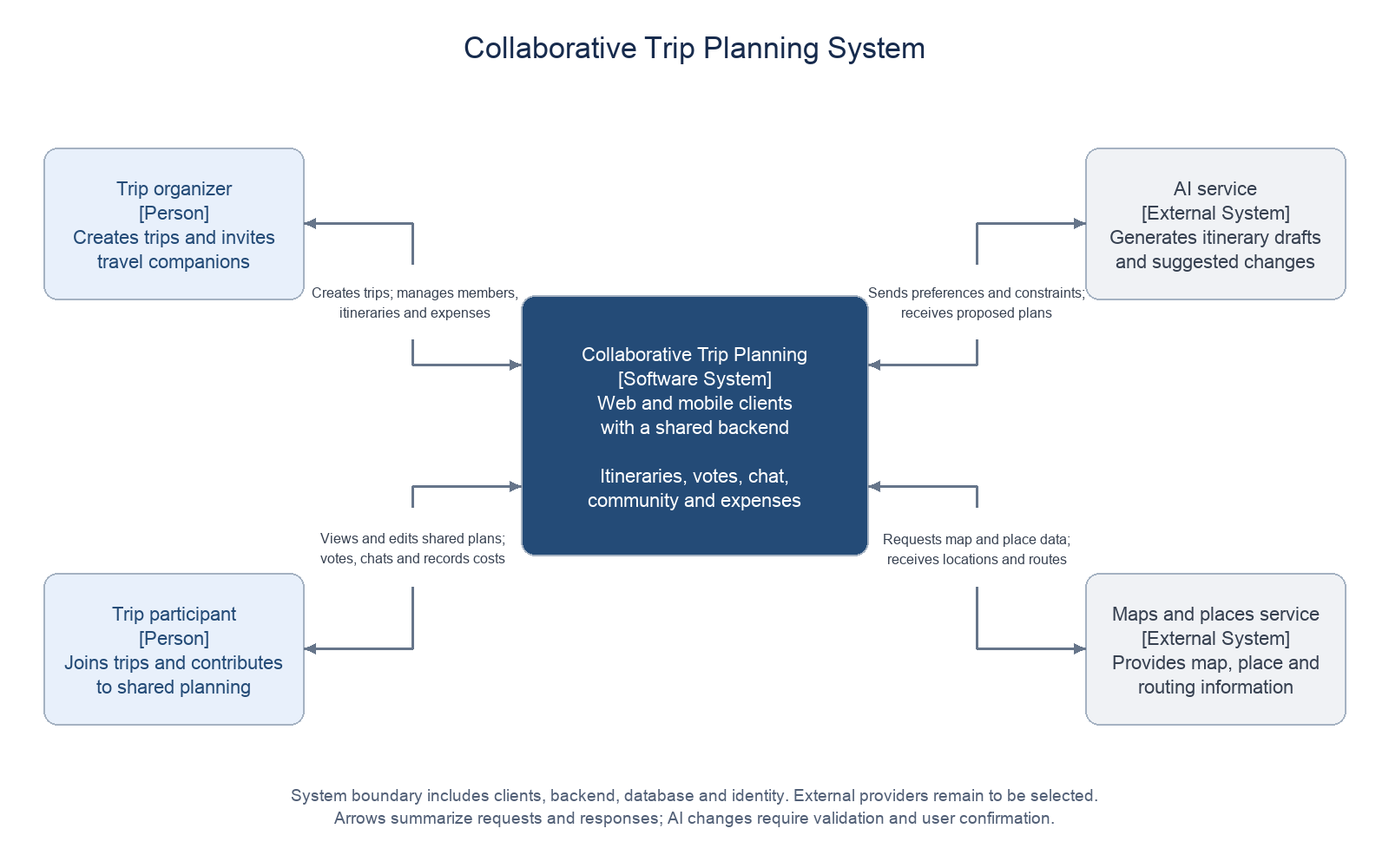
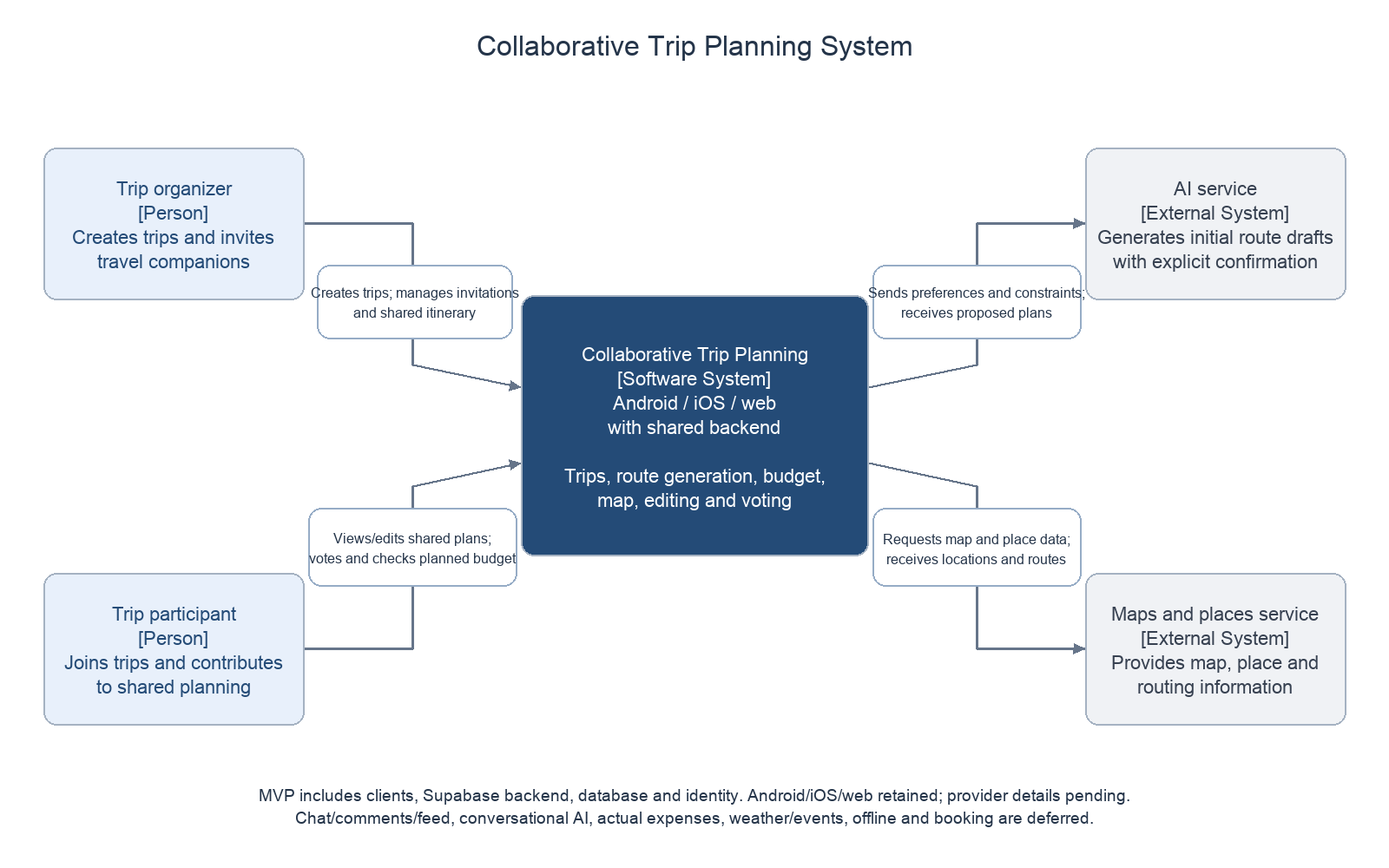
DIP-28 align backend schema and diagrams with five-function MVP

diff --git a/scripts/render_architecture.py b/scripts/render_architecture.py
@@ -1,0 +1,31 @@
+"""Render simple native draw.io context/backend sources to matching PNGs. Requires Pillow."""
+from pathlib import Path
+import xml.etree.ElementTree as E, math
+from PIL import Image,ImageDraw,ImageFont
+r=Path(__file__).resolve().parents[1]
+for name in ['backend-components','system-context']:
+ tree=E.parse(r/'diagrams'/(name+'.drawio'))
+ model=tree.find('.//mxGraphModel')
+ cells=list(tree.iter('mxCell'));boxes={c.get('id'):tuple(float(c.find('mxGeometry').get(k,'0')) for k in ['x','y','width','height']) for c in cells if c.get('vertex')=='1'}
+ im=Image.new('RGB',(int(model.get('pageWidth','2000')),int(model.get('pageHeight','1480'))),'white');d=ImageDraw.Draw(im)
+ def style(c):return dict(x.split('=',1) for x in c.get('style','').split(';') if '=' in x)
+ def rect(c):
+  x,y,w,h=boxes[c.get('id')];s=style(c)
+  if s.get('fillColor'): d.rounded_rectangle((x,y,x+w,y+h),radius=15,fill=s['fillColor'],outline=s.get('strokeColor','#96acc6'),width=2)
+ for c in cells:
+  if c.get('id')=='boundary':rect(c)
+ def border(box,point):
+  x,y,w,h=box;cx,cy=x+w/2,y+h/2;dx,dy=point[0]-cx,point[1]-cy
+  scale=min(w/2/abs(dx) if dx else float('inf'),h/2/abs(dy) if dy else float('inf'))
+  return (cx+dx*scale,cy+dy*scale)
+ for c in cells:
+  if c.get('edge')!='1':continue
+  a,b=boxes[c.get('source')],boxes[c.get('target')];pts=[(float(q.get('x')),float(q.get('y'))) for q in c.findall('.//mxPoint')]
+  ac=(a[0]+a[2]/2,a[1]+a[3]/2);bc=(b[0]+b[2]/2,b[1]+b[3]/2)
+  pts=[border(a,pts[0] if pts else bc)]+pts+[border(b,pts[-1] if pts else ac)];d.line(pts,fill='#66758a',width=3)
+  px,py=pts[-1];qx,qy=pts[-2];ang=math.atan2(py-qy,px-qx)
+  d.polygon([(px,py),(px-13*math.cos(ang)+6*math.sin(ang),py-13*math.sin(ang)-6*math.cos(ang)),(px-13*math.cos(ang)-6*math.sin(ang),py-13*math.sin(ang)+6*math.cos(ang))],fill='#66758a')
+ for c in cells:
+  if c.get('vertex')!='1' or c.get('id')=='boundary':continue
+  rect(c);s=style(c);x,y,w,h=boxes[c.get('id')];size=int(s.get('fontSize','23'));f=ImageFont.truetype('/System/Library/Fonts/Supplemental/Arial.ttf',size);txt=c.get('value','');bb=d.multiline_textbbox((0,0),txt,font=f,spacing=8,align='center');d.multiline_text((x+w/2,y+h/2-(bb[3]-bb[1])/2),txt,font=f,fill=s.get('fontColor','#243449'),spacing=8,align='center',anchor='ma')
+ im.save(r / 'diagrams' / (name + '.png'))

diff --git a/scripts/render_schema_design.py b/scripts/render_schema_design.py
@@ -66,14 +66,15 @@ for page in schema["pages"]:
         fields = schema["tables"][table]
         draw.rectangle((x,y,x+w,y+h),fill="#f4f7fb",outline="#879bb5",width=2)
         draw.rectangle((x,y,x+w,y+47),fill="#e0eaf6")
-        draw.text((x+14,y+10),table,font=heading,fill="#243449")
+        label = table + " [" + schema["mvp_scope"]["tables"][table].upper() + "]"
+        draw.text((x+14,y+10),label,font=heading,fill="#243449")
         for n,line in enumerate(fields):
             if draw.textlength(line,font=font) > w-28:
                 raise ValueError(f"Field too wide: {table}: {line}")
             draw.text((x+14,y+64+n*32),line,font=font,fill="#243449")
-        value = table+"\n\n"+"\n".join(fields)
+        value = label+"\n\n"+"\n".join(fields)
         text_cell(table,value,x,y,w,h,"rounded=0;whiteSpace=wrap;html=0;fillColor=#f4f7fb;strokeColor=#879bb5;fontColor=#243449;fontSize=18;align=left;verticalAlign=top;spacing=14;")
-    note = "Repeated tables are references to one shared schema. FK fields define all relationships.\nPK: primary key; UQ: unique; ?: nullable. Proposed design; see docs/database-design.md for rules."
+    note = "MVP / DEFERRED labels mark scope; all 15 tables retained. Repeated tables are references.\nPK: primary key; UQ: unique; ?: nullable. Proposed design; see docs/database-design.md for rules."
     draw.multiline_text((60,1570),note,font=font,fill="#52657c",spacing=10)
     text_cell("note",note,60,1570,1880,100,"text;html=0;fontSize=18;align=left;")
     image.save(ROOT / "diagrams" / (page["file"]+".png"))

diff --git a/docs/backend-technology-comparison.md b/docs/backend-technology-comparison.md
@@ -1,5 +1,22 @@
 # Backend and Communication Technology Comparison
 
+## Five-function MVP boundary (23 October 2026)
+
+This revision follows the supervisor scope recorded in [PR #10](https://github.com/yer455yl/collaborative-trip-planning/pull/10) and the [proposed responsibility split](mvp-scope-and-responsibilities.md). Android, iOS and web remain planned. Detailed ownership and interface acceptance are pending teammate replies; this document does not approve PR #10.
+
+| Scope | Tables and responsibility |
+| --- | --- |
+| MVP support | `users`, `trips`, `participants`: authenticated trip creation and active owner/editor access |
+| MVP planning | `places`, `plan_items`: catalog identifiers, route/map data and whole-party planned costs |
+| MVP collaboration | `votes`, `invitations`: one current vote, owner-issued invitation and atomic acceptance |
+| MVP generation | `ai_proposals`: initial route draft, validation and explicit versioned confirmation; no conversational editor |
+| Deferred, retained | `events`, `comments`, `chat_messages`, `posts`, `post_reports`, `expenses`, `expense_splits` |
+
+All **15** table definitions and results of PR #8/#9 are retained. `trips.expenses_enabled`, `places.booking_url`, `plan_items.event_id` and `item_type=event` are future fields; retaining them does not enable those capabilities. Actual expenses/debts differ from planned estimates. Weather, offline access and booking integrations are deferred. Future text below describes retained design only wherever it concerns these domains.
+
+MVP invariants: owner = Organizer; editor = Participant; inactive members have no access. Both active roles edit/vote; only the owner administers invitations/membership. Initial generation uses the same trusted validation as manual editing. `plan_items.estimated_cost` is already normalized for the whole party. Never multiply it by traveler count again. Server-owned catalog prices, required categories and freshness policy must be checked independently of client totals. See the [proposed wire/transaction contract](mvp-server-contract.md) for errors, dates, units, confirmation and open questions.
+
+
 Prepared by Aman Yerassyl. Documentation checked on 20 October 2026.
 
 ## Purpose and proposed decision
@@ -10,7 +27,7 @@ Wanderlog is a reference for user-facing planning workflows, not evidence of its
 
 ## Requirements used for comparison
 
-Both clients need a shared source of truth for trips, participants, ordered itinerary items, votes, comments, messages, posts, expenses and places. Private trip data must be available only to authorized members. Expense totals and membership changes require consistent validation. AI-generated plans must be checked against stored places and budget rules before the user confirms changes. Chat and collaborative updates need timely delivery; permanent data must survive a disconnected client.
+MVP clients need a shared source of truth for trips, participants, itinerary items, votes, invitations, proposals and places. Comments, messages, posts and actual expenses remain future comparative considerations. Private trip data must be available only to authorized members. Expense totals and membership changes require consistent validation. AI-generated plans must be checked against stored places and budget rules before the user confirms changes. Collaborative itinerary/vote updates need timely delivery; permanent data must survive a disconnected client.
 
 The effort and suitability assessments below are engineering judgments for a three-person student team, not measured results. No assumptions are made about the team's existing framework expertise.
 
@@ -53,7 +70,7 @@ These options operate at different levels and can be combined. A real-time liste
 1. **Database: PostgreSQL through Supabase.** The domain has many connected records. Foreign keys and constraints support explicit relations and prevent some invalid states. This is a project-fit judgment, not a claim that Firestore cannot support the application.
 2. **Identity and access: Supabase Auth and trip-membership policies.** Web and mobile clients use the same identity system. Exposed tables require explicit access policies; privileged secrets stay on the server. RLS must be tested for owner, member, outsider and removed-member cases.
 3. **Data access: HTTPS REST and transactional database operations.** Use the generated data API for policy-protected ordinary operations. Use database functions or trusted server functions for membership changes, expense operations and itinerary updates requiring multiple atomic changes. A client-provided trip ID is never sufficient authorization.
-4. **Live collaboration: managed Realtime.** Persist chat messages before notifying other clients. Scope subscriptions to the relevant trip and enforce actual authorization. After reconnecting, fetch current records and deduplicate by record ID; refresh when access changes. Event filters are not a substitute for permissions.
+4. **Live collaboration: managed Realtime.** Persist MVP itinerary/vote changes before notifying other clients. Chat delivery is deferred. Scope subscriptions to the relevant trip and enforce actual authorization. After reconnecting, fetch current records and deduplicate by record ID; refresh when access changes. Event filters are not a substitute for permissions.
 5. **AI integration: trusted server execution.** The server checks membership, validates input and calls the external AI service. It validates proposed places, time and budget, then returns a draft. Saving requires user confirmation and validation against the latest itinerary version. The AI provider and execution limits remain undecided.
 6. **Custom Node.js service: reserve option.** Introduce a dedicated service if measured processing needs, integration requirements or function execution limits require it. A separate Node.js layer is not necessary solely to claim that the project has a backend.
 
@@ -63,9 +80,9 @@ Expense values should use an exact monetary representation and a defined currenc
 
 The following are planned checks, not completed test results:
 
-- Connect one web client and one mobile client to the same test trip; create a saved message and confirm both see it. Record end-to-end delay; the team must agree on an acceptance threshold.
+- Connect one web client and one mobile client to the same test trip; commit a versioned itinerary update and confirm both see it. Record end-to-end delay; the team must agree on an acceptance threshold.
 - Verify that an outsider cannot read, change or subscribe to private trip data; verify loss of access after membership removal.
-- Disconnect a client, create updates on the other, reconnect and confirm the complete saved state is restored without duplicate messages.
+- Disconnect a client, create updates on the other, reconnect and confirm the complete saved state is restored without duplicate itinerary items/votes.
 - Submit a vote twice and verify the agreed uniqueness rule; attempt a conflicting itinerary edit and verify explicit conflict handling.
 - Check monetary calculations and ensure an invalid or unconfirmed AI proposal cannot overwrite the saved itinerary.
 - Estimate usage against current quotas and pricing; confirm selected SDKs and server-function limits suit the chosen frameworks and AI workload.

diff --git a/docs/backend-component-design.md b/docs/backend-component-design.md
@@ -1,5 +1,22 @@
 # Backend Component Design
 
+## Five-function MVP boundary (23 October 2026)
+
+This revision follows the supervisor scope recorded in [PR #10](https://github.com/yer455yl/collaborative-trip-planning/pull/10) and the [proposed responsibility split](mvp-scope-and-responsibilities.md). Android, iOS and web remain planned. Detailed ownership and interface acceptance are pending teammate replies; this document does not approve PR #10.
+
+| Scope | Tables and responsibility |
+| --- | --- |
+| MVP support | `users`, `trips`, `participants`: authenticated trip creation and active owner/editor access |
+| MVP planning | `places`, `plan_items`: catalog identifiers, route/map data and whole-party planned costs |
+| MVP collaboration | `votes`, `invitations`: one current vote, owner-issued invitation and atomic acceptance |
+| MVP generation | `ai_proposals`: initial route draft, validation and explicit versioned confirmation; no conversational editor |
+| Deferred, retained | `events`, `comments`, `chat_messages`, `posts`, `post_reports`, `expenses`, `expense_splits` |
+
+All **15** table definitions and results of PR #8/#9 are retained. `trips.expenses_enabled`, `places.booking_url`, `plan_items.event_id` and `item_type=event` are future fields; retaining them does not enable those capabilities. Actual expenses/debts differ from planned estimates. Weather, offline access and booking integrations are deferred. Future text below describes retained design only wherever it concerns these domains.
+
+MVP invariants: owner = Organizer; editor = Participant; inactive members have no access. Both active roles edit/vote; only the owner administers invitations/membership. Initial generation uses the same trusted validation as manual editing. `plan_items.estimated_cost` is already normalized for the whole party. Never multiply it by traveler count again. Server-owned catalog prices, required categories and freshness policy must be checked independently of client totals. See the [proposed wire/transaction contract](mvp-server-contract.md) for errors, dates, units, confirmation and open questions.
+
+
 This proposed design describes Yerassyl's backend and database contribution. It is intended for integration with Zukhra's overall architecture and Sayakhat's client and AI workflows. Supabase is the selected shared backend for Flutter mobile and web. Authorization, transactions and reconnect recovery still require the proof of concept described in the technology comparison. No services have been deployed.
 
 ## Diagram
@@ -15,7 +32,7 @@ This proposed design describes Yerassyl's backend and database contribution. It 
 | Web and mobile clients | Present planning workflows and hold the user's session. They call the same backend. Client-side checks improve usability but do not establish permission |
 | Authentication | Managed sign-in and token issuance. Application profile IDs correspond to identity records; authentication does not automatically grant trip membership |
 | Data API | Policy-protected ordinary reads and writes through REST. Exposed tables require RLS and explicit grants. Complex operations must not be bypassed by direct table writes |
-| Trusted operations | Server functions authorize membership changes, expense updates, itinerary edits and AI requests. They invoke transactional database functions where multiple records must change atomically |
+| Trusted operations | MVP server functions authorize membership changes, itinerary edits and initial AI requests; expense commands are deferred. They invoke transactional database functions where multiple records must change atomically |
 | PostgreSQL | Stores the 15 application tables in the ER model and managed identity records separately. Enforces keys, constraints and policies; database functions implement atomic multi-record operations |
 | Realtime delivery | Sends permitted change notifications to subscribed clients after persistence. The database remains authoritative; subscriptions are not durable message history |
 | External AI provider | Receives a controlled planning request and returns untrusted draft content. Credentials stay in server configuration; the provider has no direct database access |
@@ -26,9 +43,9 @@ These are logical responsibilities. A single server-functions codebase may initi
 
 ### Reading and updating trip data
 
-The client signs in and supplies its token on data requests. Policies check active membership and role for the requested trip. Ordinary permitted records may use the Data API directly. Operations affecting ownership, expense totals or itinerary order must pass through a protected command and an atomic database transaction. Restrict direct writes to those records so clients cannot bypass invariant checks.
+The client signs in and supplies its token on data requests. Policies check active membership and role for the requested trip. Ordinary permitted records may use the Data API directly. MVP operations affecting ownership or itinerary order must pass through a protected command and an atomic database transaction. Restrict direct writes to those records so clients cannot bypass invariant checks.
 
-### Saving chat messages and notifying participants
+### Deferred: saving chat messages and notifying participants
 
 An active member sends a message with a stable client_message_id. The authorized write persists it once, using the unique key described in the ER model. Realtime then delivers permitted change events. Clients deduplicate by record ID and reload stored history after reconnection. A missing WebSocket event must not lose a saved message.
 
@@ -36,7 +53,7 @@ An active member sends a message with a stable client_message_id. The authorized
 
 The server checks the requester and trip, loads relevant places and constraints, and calls the AI provider. It validates the draft's place references, schedule and budget before returning it for preview. The existing saved itinerary remains unchanged. When the user confirms, the server rechecks permission and the current itinerary version and saves the valid changes atomically. Reject stale or invalid proposals. The revised ai_proposals table stores private structured drafts and confirmation outcomes. Confirmation and the itinerary version update occur in one trusted transaction; full conversation history remains outside this model.
 
-### Membership and expenses
+### Membership (MVP) and expenses (deferred)
 
 A protected operation handles accepted membership and ownership changes. Historical membership records remain available for linked messages and financial records; inactive users must lose access. Expense updates validate the payer, participating users, trip currency and exact sum of shares before committing. The role and invariants must be enforced within the trusted transaction, including when the server uses a privileged database connection.
 

diff --git a/docs/schema-alignment.md b/docs/schema-alignment.md
@@ -1,5 +1,22 @@
 # Schema Alignment for Mobile and Web
 
+## Five-function MVP boundary (23 October 2026)
+
+This revision follows the supervisor scope recorded in [PR #10](https://github.com/yer455yl/collaborative-trip-planning/pull/10) and the [proposed responsibility split](mvp-scope-and-responsibilities.md). Android, iOS and web remain planned. Detailed ownership and interface acceptance are pending teammate replies; this document does not approve PR #10.
+
+| Scope | Tables and responsibility |
+| --- | --- |
+| MVP support | `users`, `trips`, `participants`: authenticated trip creation and active owner/editor access |
+| MVP planning | `places`, `plan_items`: catalog identifiers, route/map data and whole-party planned costs |
+| MVP collaboration | `votes`, `invitations`: one current vote, owner-issued invitation and atomic acceptance |
+| MVP generation | `ai_proposals`: initial route draft, validation and explicit versioned confirmation; no conversational editor |
+| Deferred, retained | `events`, `comments`, `chat_messages`, `posts`, `post_reports`, `expenses`, `expense_splits` |
+
+All **15** table definitions and results of PR #8/#9 are retained. `trips.expenses_enabled`, `places.booking_url`, `plan_items.event_id` and `item_type=event` are future fields; retaining them does not enable those capabilities. Actual expenses/debts differ from planned estimates. Weather, offline access and booking integrations are deferred. Future text below describes retained design only wherever it concerns these domains.
+
+MVP invariants: owner = Organizer; editor = Participant; inactive members have no access. Both active roles edit/vote; only the owner administers invitations/membership. Initial generation uses the same trusted validation as manual editing. `plan_items.estimated_cost` is already normalized for the whole party. Never multiply it by traveler count again. Server-owned catalog prices, required categories and freshness policy must be checked independently of client totals. See the [proposed wire/transaction contract](mvp-server-contract.md) for errors, dates, units, confirmation and open questions.
+
+
 Proposed revision, 22 October 2026. Supabase/PostgreSQL is selected. These are logical design rules for review, not deployed migrations. The canonical field inventory is [schema-design.json](../config/schema-design.json); [database-er.drawio](../diagrams/database-er.drawio) and its four PNG views are generated by [render_schema_design.py](../scripts/render_schema_design.py). All 15 application tables share one database. Supabase Auth tables are managed separately.
 
 ## Requirements and Added Fields
@@ -11,7 +28,7 @@ Proposed revision, 22 October 2026. Supabase/PostgreSQL is selected. These are l
 | FR-04/06/19, NFR-09/11 | Places include description, cost unit/category, capacity basis, duration, source/check date and optional booking/map URLs. Nullable prices mean unknown, never free. |
 | FR-05/17 | `plan_items.item_type` distinguishes place, event and custom entries; an optional event FK supports dated context. `events` contains place, timestamps, price unit, source/check date and status. |
 | FR-08 | `invitations` stores a unique token hash, expiry, revocation and acceptance; only the trusted owner command can issue/revoke invitations. |
-| FR-12 | `ai_proposals` stores trip/requester, base version, idempotency key, structured draft, costs, validation errors, expiry and confirmation outcome. |
+| FR-03/05 (MVP); FR-12 deferred | `ai_proposals` stores trip/requester, base version, idempotency key, structured draft, costs, validation errors, expiry and confirmation outcome. |
 | FR-14 | Posts require a catalog place and include publication state, update/publication times, optional media URL/alt text, optional estimated cost/currency and best-time text. Likes, saved posts and multiple attachments remain outside this minimal model. |
 | FR-15 | `post_reports` prevents duplicate reporter/post pairs and records review state, reviewer, reason and resolution. Reviewer privileges are separate from trip roles and must be provisioned through trusted administration. |
 | FR-09/10/11/13 | Existing vote/comment/chat/expense tables retain same-trip constraints, retry deduplication and exact balanced shares. |
@@ -20,7 +37,7 @@ The earlier teammate's complete field list was not supplied as a standalone spec
 
 ## Role Contract
 
-Persist `owner` and `editor`; display **Organizer** and **Participant**, respectively. Both active roles can read, edit, vote, comment, chat, confirm permitted AI changes and record expenses. Only the organizer manages invitations, membership and ownership. Exactly one active owner must remain. `viewer` is deferred and is not a supported invitation or membership value in this baseline. A future read-only role needs explicit requirements, policies, UI and tests before introduction.
+Persist `owner` and `editor`; display **Organizer** and **Participant**, respectively. Both active roles can read, edit, vote and confirm validated initial plans. Comment, chat and actual-expense permissions below are deferred. Only the organizer manages invitations, membership and ownership. Exactly one active owner must remain. `viewer` is deferred and is not a supported invitation or membership value in this baseline. A future read-only role needs explicit requirements, policies, UI and tests before introduction.
 
 ## Constraints and Trusted Transactions
 

diff --git a/docs/yerassyl-checklist.md b/docs/yerassyl-checklist.md
@@ -1,5 +1,22 @@
 # Yerassyl's Contribution Checklist
 
+## Five-function MVP boundary (23 October 2026)
+
+This revision follows the supervisor scope recorded in [PR #10](https://github.com/yer455yl/collaborative-trip-planning/pull/10) and the [proposed responsibility split](mvp-scope-and-responsibilities.md). Android, iOS and web remain planned. Detailed ownership and interface acceptance are pending teammate replies; this document does not approve PR #10.
+
+| Scope | Tables and responsibility |
+| --- | --- |
+| MVP support | `users`, `trips`, `participants`: authenticated trip creation and active owner/editor access |
+| MVP planning | `places`, `plan_items`: catalog identifiers, route/map data and whole-party planned costs |
+| MVP collaboration | `votes`, `invitations`: one current vote, owner-issued invitation and atomic acceptance |
+| MVP generation | `ai_proposals`: initial route draft, validation and explicit versioned confirmation; no conversational editor |
+| Deferred, retained | `events`, `comments`, `chat_messages`, `posts`, `post_reports`, `expenses`, `expense_splits` |
+
+All **15** table definitions and results of PR #8/#9 are retained. `trips.expenses_enabled`, `places.booking_url`, `plan_items.event_id` and `item_type=event` are future fields; retaining them does not enable those capabilities. Actual expenses/debts differ from planned estimates. Weather, offline access and booking integrations are deferred. Future text below describes retained design only wherever it concerns these domains.
+
+MVP invariants: owner = Organizer; editor = Participant; inactive members have no access. Both active roles edit/vote; only the owner administers invitations/membership. Initial generation uses the same trusted validation as manual editing. `plan_items.estimated_cost` is already normalized for the whole party. Never multiply it by traveler count again. Server-owned catalog prices, required categories and freshness policy must be checked independently of client totals. See the [proposed wire/transaction contract](mvp-server-contract.md) for errors, dates, units, confirmation and open questions.
+
+
 Updated 22 October 2026 against current repository artifacts. Original work-plan deadlines were 15–20 October; this checklist does not claim on-time delivery. Checked items mean a deliverable exists, not that it is approved, implemented or tested.
 
 ## Repository and Collaboration
@@ -28,7 +45,7 @@ Updated 22 October 2026 against current repository artifacts. Original work-plan
 - [x] Revise the logical model with traveler count/type/interests, preferred language, catalog fields, item type, events, AI proposals, invitations and place-linked posts/reports.
 - [x] Align database/UI roles: owner = Organizer, editor = Participant; viewer deferred.
 - [x] Provide a reproducible field inventory and four-page editable ER source with PNG previews.
-- [x] Map server verification cases to FR/NFR IDs; extend 25 initial cases to 32 for the revised schema.
+- [x] Map server verification cases to FR/NFR IDs; retain all 32 prior cases with scope labels and add three MVP cases (35 planned total).
 - [x] Connect server checks to the overall evaluation plan, including client generation timing, budget, SUS and manual comparison protocols.
 - [ ] Obtain team review of detailed schema, media/moderation/freshness policies, AI/UX confirmation flow and metric targets.
 - [ ] Implement migrations, RLS, trusted commands and clients; execute the planned tests. No implementation is claimed here.

diff --git a/docs/team-handoff.md b/docs/team-handoff.md
@@ -1,5 +1,22 @@
 # Backend Contribution Handoff
 
+## Five-function MVP boundary (23 October 2026)
+
+This revision follows the supervisor scope recorded in [PR #10](https://github.com/yer455yl/collaborative-trip-planning/pull/10) and the [proposed responsibility split](mvp-scope-and-responsibilities.md). Android, iOS and web remain planned. Detailed ownership and interface acceptance are pending teammate replies; this document does not approve PR #10.
+
+| Scope | Tables and responsibility |
+| --- | --- |
+| MVP support | `users`, `trips`, `participants`: authenticated trip creation and active owner/editor access |
+| MVP planning | `places`, `plan_items`: catalog identifiers, route/map data and whole-party planned costs |
+| MVP collaboration | `votes`, `invitations`: one current vote, owner-issued invitation and atomic acceptance |
+| MVP generation | `ai_proposals`: initial route draft, validation and explicit versioned confirmation; no conversational editor |
+| Deferred, retained | `events`, `comments`, `chat_messages`, `posts`, `post_reports`, `expenses`, `expense_splits` |
+
+All **15** table definitions and results of PR #8/#9 are retained. `trips.expenses_enabled`, `places.booking_url`, `plan_items.event_id` and `item_type=event` are future fields; retaining them does not enable those capabilities. Actual expenses/debts differ from planned estimates. Weather, offline access and booking integrations are deferred. Future text below describes retained design only wherever it concerns these domains.
+
+MVP invariants: owner = Organizer; editor = Participant; inactive members have no access. Both active roles edit/vote; only the owner administers invitations/membership. Initial generation uses the same trusted validation as manual editing. `plan_items.estimated_cost` is already normalized for the whole party. Never multiply it by traveler count again. Server-owned catalog prices, required categories and freshness policy must be checked independently of client totals. See the [proposed wire/transaction contract](mvp-server-contract.md) for errors, dates, units, confirmation and open questions.
+
+
 Updated 22 October 2026. Prepared by Aman Yerassyl. The repository contains design/research deliverables; there is no deployed backend or executed test report.
 
 ## Confirmed Scope and Current Integration
@@ -10,7 +27,7 @@ Updated 22 October 2026. Prepared by Aman Yerassyl. The repository contains desi
 - [Integrated literature](literature-review.md) includes all three contributions. Full-text reading limitations remain explicit; integration does not prove each member has read every paper.
 - [Requirements](requirements-specification.md), [overall architecture and Use Cases](architecture-and-use-cases.md), and [team evaluation](verification-and-evaluation-plan.md) are present. They still need review and implementation evidence.
 - [Schema alignment](schema-alignment.md) expands the initial model to 15 tables with trip preferences, catalog provenance, events, invitations, AI proposal lifecycle and minimal feed/report persistence.
-- [Server testing](server-testing-plan.md) maps 32 proposed cases to FR/NFR IDs. The earlier contribution had 25 cases; seven cases cover the schema revision. All are Not run.
+- [Server testing](server-testing-plan.md) maps 35 proposed cases (22 MVP, 13 deferred) to FR/NFR IDs. The earlier contribution had 25 cases; seven cases cover the schema revision. All are Not run.
 
 ## Materials and Review Actions
 

diff --git a/docs/database-design.md b/docs/database-design.md
@@ -1,5 +1,22 @@
 # Database Design
 
+## Five-function MVP boundary (23 October 2026)
+
+This revision follows the supervisor scope recorded in [PR #10](https://github.com/yer455yl/collaborative-trip-planning/pull/10) and the [proposed responsibility split](mvp-scope-and-responsibilities.md). Android, iOS and web remain planned. Detailed ownership and interface acceptance are pending teammate replies; this document does not approve PR #10.
+
+| Scope | Tables and responsibility |
+| --- | --- |
+| MVP support | `users`, `trips`, `participants`: authenticated trip creation and active owner/editor access |
+| MVP planning | `places`, `plan_items`: catalog identifiers, route/map data and whole-party planned costs |
+| MVP collaboration | `votes`, `invitations`: one current vote, owner-issued invitation and atomic acceptance |
+| MVP generation | `ai_proposals`: initial route draft, validation and explicit versioned confirmation; no conversational editor |
+| Deferred, retained | `events`, `comments`, `chat_messages`, `posts`, `post_reports`, `expenses`, `expense_splits` |
+
+All **15** table definitions and results of PR #8/#9 are retained. `trips.expenses_enabled`, `places.booking_url`, `plan_items.event_id` and `item_type=event` are future fields; retaining them does not enable those capabilities. Actual expenses/debts differ from planned estimates. Weather, offline access and booking integrations are deferred. Future text below describes retained design only wherever it concerns these domains.
+
+MVP invariants: owner = Organizer; editor = Participant; inactive members have no access. Both active roles edit/vote; only the owner administers invitations/membership. Initial generation uses the same trusted validation as manual editing. `plan_items.estimated_cost` is already normalized for the whole party. Never multiply it by traveler count again. Server-owned catalog prices, required categories and freshness policy must be checked independently of client totals. See the [proposed wire/transaction contract](mvp-server-contract.md) for errors, dates, units, confirmation and open questions.
+
+
 This proposed logical schema supports the web and mobile trip-planning clients. It contains 15 application tables for the selected Supabase/PostgreSQL backend. The 22 October revision is specified in [Schema Alignment](schema-alignment.md); the complete field inventory is [schema-design.json](../config/schema-design.json). It has not been deployed: SQL migrations, access policies and runtime tests are separate implementation tasks.
 
 ## Diagram files

diff --git a/diagrams/README.md b/diagrams/README.md
@@ -54,3 +54,9 @@ See [database design](../docs/database-design.md) for keys, constraints, access 
 - [Responsibilities and workflows](../docs/backend-component-design.md)
 
 This is the backend/database contribution for the team's combined Component Diagram. Client internals and the map integration are included in the overall Component view; interface review and implementation remain pending. No deployment or runtime validation is implied.
+
+## MVP scope revision, 23 October 2026
+
+Backend/context and all four ER views now distinguish the five-function MVP from retained future design. All 15 tables remain; eight support MVP and seven are deferred. The generation proposal table supports initial drafts and explicit confirmation, not a conversational assistant. Android/iOS/web are retained. No diagram demonstrates deployment.
+
+Reproduce ER source/PNGs with `python3 scripts/render_schema_design.py`; reproduce context/backend PNGs from their native editable XML using `python3 scripts/render_architecture.py` (Pillow and system Arial font required). Team-owned overall Component/Use Case changes stay in PR #10. Review the [server contract proposal](../docs/mvp-server-contract.md) before integration.
